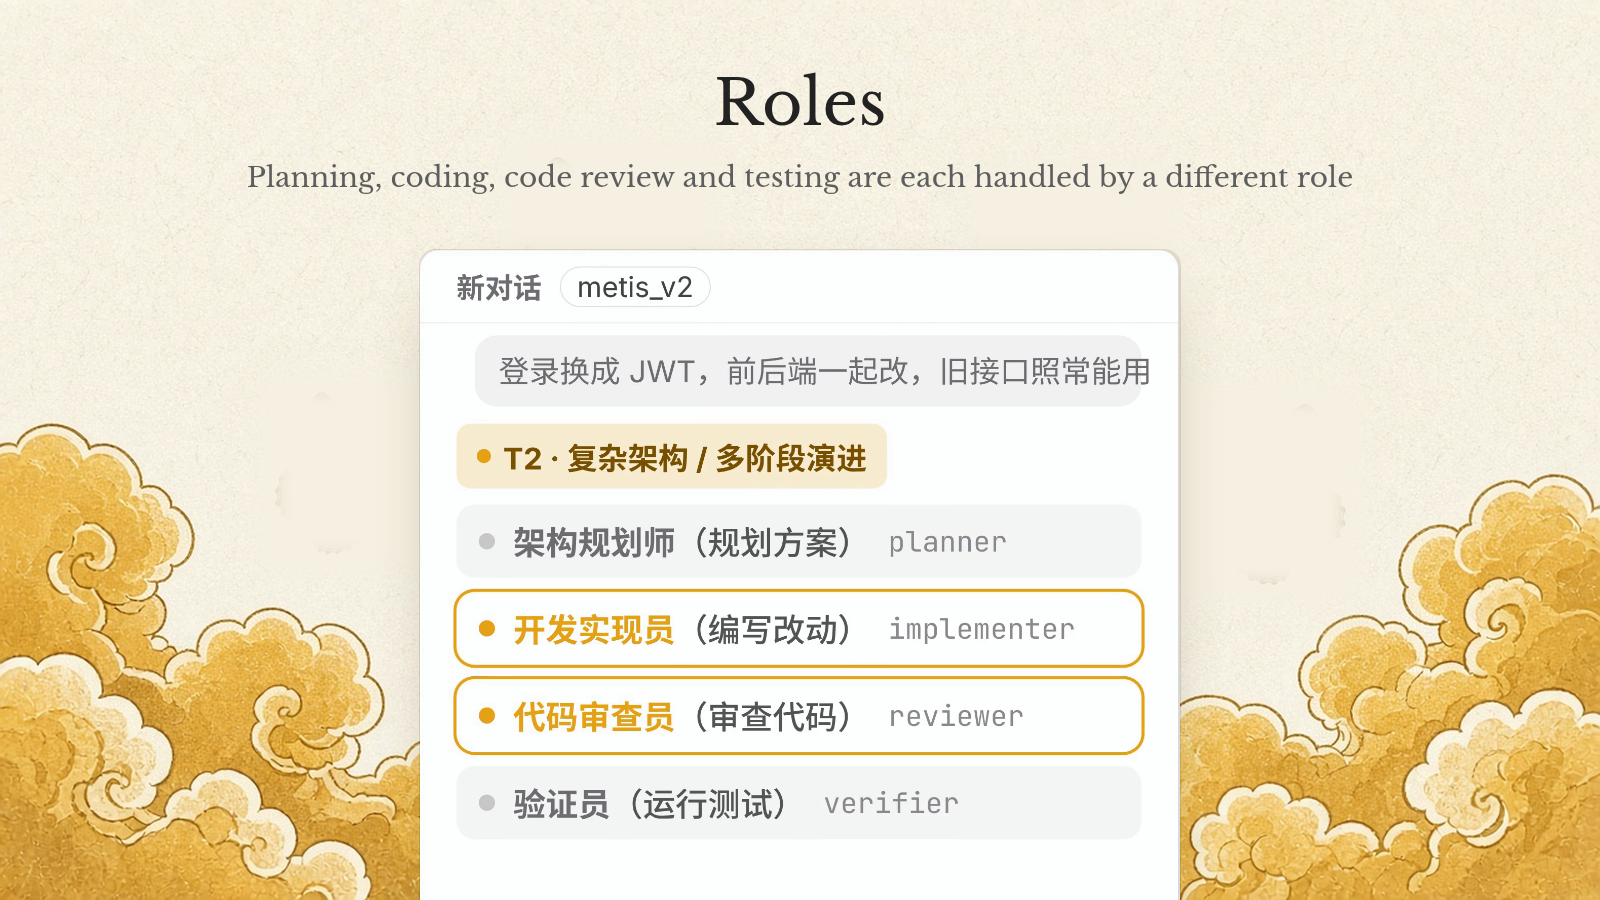
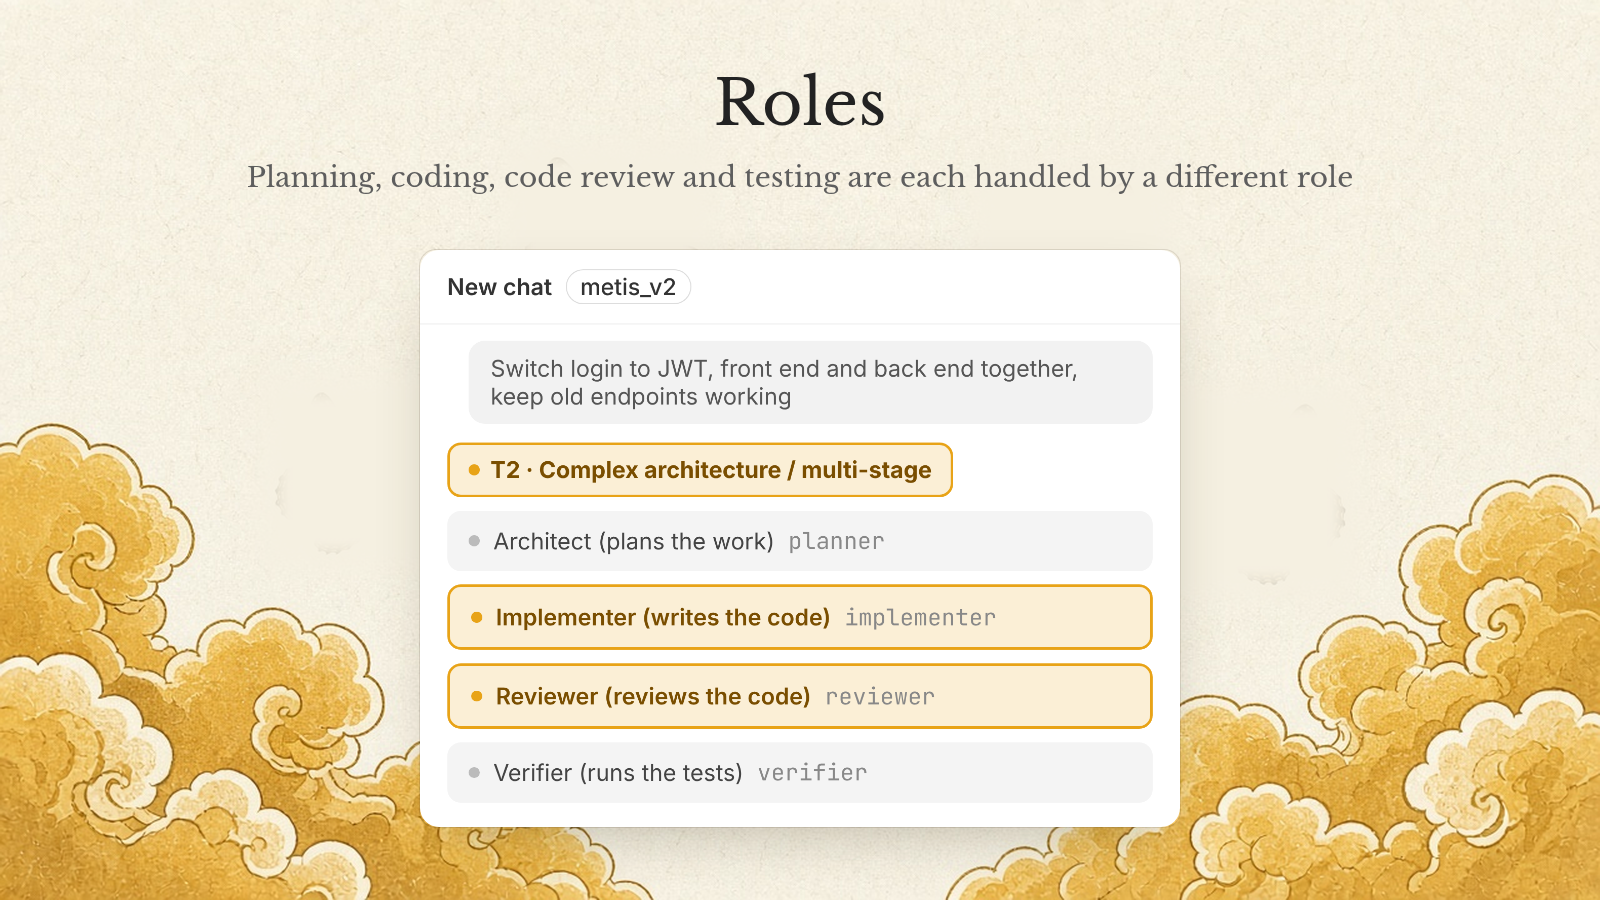
docs: install first, section header images, English UI cards

Changed region(s): [[0.25, 0.5911, 0.75, 1.0], [0.2812, 0.3733, 0.7188, 0.56], [0.2812, 0.3111, 0.4375, 0.3422]]

diff --git a/README.md b/README.md
@@ -19,6 +19,25 @@
   <a href="https://siliconflow.cn"><img alt="Powered by 硅基流动" src="https://img.shields.io/badge/Powered_by-%E7%A1%85%E5%9F%BA%E6%B5%81%E5%8A%A8-2563eb" /></a>
 </p>
 
+<p align="center"><img src="docs/images/readme/en/sections/quickstart.png" alt="Quick start" width="100%"></p>
+
+**Desktop (recommended):** download the installer from [GitHub Releases](https://github.com/Wholiver/metis/releases/latest): `.dmg` for macOS, `.exe` for Windows. The runtime is bundled, so you don't need Node.js.
+
+**Terminal** (requires [Node.js 22.19.0 or newer](https://nodejs.org/)):
+
+```bash
+npm install -g @wholiver_hu/metis
+```
+
+**Skill:**
+
+```bash
+npm install -g metis-skill
+metis-plugin install codex
+```
+
+For OpenCode or DeepSeek Harness, replace `codex` with `opencode` or `deepseek`. See the [Quickstart](docs/quickstart.md) for details.
+
 ## Desktop app
 
 <img src="docs/images/readme/en/desktop.png" alt="Desktop app" />
@@ -55,32 +74,13 @@ Metis drafts your commit messages, and you can see every changed file at a glanc
 
 Prefer the terminal? Use it there. You can also install it into Codex, OpenCode and DeepSeek Harness.
 
-## Quick start
-
-**Desktop (recommended):** download the installer from [GitHub Releases](https://github.com/Wholiver/metis/releases/latest): `.dmg` for macOS, `.exe` for Windows. The runtime is bundled, so you don't need Node.js.
-
-**Terminal** (requires [Node.js 22.19.0 or newer](https://nodejs.org/)):
-
-```bash
-npm install -g @wholiver_hu/metis
-```
-
-**Skill:**
-
-```bash
-npm install -g metis-skill
-metis-plugin install codex
-```
-
-For OpenCode or DeepSeek Harness, replace `codex` with `opencode` or `deepseek`. See the [Quickstart](docs/quickstart.md) for details.
-
-## Partners
+<p align="center"><img src="docs/images/readme/en/sections/partners.png" alt="Partners" width="100%"></p>
 
 | Logo | Partner | Link |
 | :---: | :--- | :--- |
 | <img src="docs/images/siliconflow-logo.png" alt="SiliconFlow" height="36" /> | **SiliconFlow (硅基流动)** — China's leading independent ecosystem token supply platform, providing Metis with efficient and flexible model inference. | [siliconflow.cn](https://siliconflow.cn) |
 
-## Community
+<p align="center"><img src="docs/images/readme/en/sections/community.png" alt="Community" width="100%"></p>
 
 <p align="center">
   <img src="docs/images/metis-community-qq.png" width="220" alt="Metis QQ group QR code" /><br />
@@ -89,17 +89,17 @@ For OpenCode or DeepSeek Harness, replace `codex` with `opencode` or `deepseek`.
 
 Found a bug or have an idea? Open an [issue](https://github.com/Wholiver/metis/issues) or start a [discussion](https://github.com/Wholiver/metis/discussions).
 
-## Documentation
+<p align="center"><img src="docs/images/readme/en/sections/docs.png" alt="Documentation" width="100%"></p>
 
 Every guide is listed in the [documentation index](docs/index.md). Start with the [Quickstart](docs/quickstart.md).
 
-## Contributing
+<p align="center"><img src="docs/images/readme/en/sections/contributing.png" alt="Contributing" width="100%"></p>
 
 PRs are welcome. See [CONTRIBUTING.md](CONTRIBUTING.md) for development and testing.
 
 Metis builds on [pi](https://github.com/earendil-works/pi) by Mario Zechner.
 
-## License
+<p align="center"><img src="docs/images/readme/en/sections/license.png" alt="License" width="100%"></p>
 
 [MIT](LICENSE)
 

diff --git a/README.zh-CN.md b/README.zh-CN.md
@@ -19,6 +19,25 @@
   <a href="https://siliconflow.cn"><img alt="Powered by 硅基流动" src="https://img.shields.io/badge/Powered_by-%E7%A1%85%E5%9F%BA%E6%B5%81%E5%8A%A8-2563eb" /></a>
 </p>
 
+<p align="center"><img src="docs/images/readme/zh/sections/quickstart.png" alt="快速开始" width="100%"></p>
+
+**桌面版（推荐）**：到 [GitHub Releases](https://github.com/Wholiver/metis/releases/latest) 下载安装包，macOS 选 `.dmg`，Windows 选 `.exe`。桌面版自带运行环境，不用另装 Node.js。
+
+**终端版**（需要 [Node.js 22.19.0 或更新版本](https://nodejs.org/)）：
+
+```bash
+npm install -g @wholiver_hu/metis
+```
+
+**Skill 版**：
+
+```bash
+npm install -g metis-skill
+metis-plugin install codex
+```
+
+想装进 OpenCode 或 DeepSeek Harness，把最后的 `codex` 换成 `opencode` 或 `deepseek`。更多说明见 [Quickstart](docs/quickstart.md)。
+
 ## 桌面版
 
 <img src="docs/images/readme/zh/desktop.png" alt="桌面版" />
@@ -55,32 +74,13 @@
 
 不想开桌面版就在终端里用，也能装进 Codex、OpenCode 和 DeepSeek Harness。
 
-## 快速开始
-
-**桌面版（推荐）**：到 [GitHub Releases](https://github.com/Wholiver/metis/releases/latest) 下载安装包，macOS 选 `.dmg`，Windows 选 `.exe`。桌面版自带运行环境，不用另装 Node.js。
-
-**终端版**（需要 [Node.js 22.19.0 或更新版本](https://nodejs.org/)）：
-
-```bash
-npm install -g @wholiver_hu/metis
-```
-
-**Skill 版**：
-
-```bash
-npm install -g metis-skill
-metis-plugin install codex
-```
-
-想装进 OpenCode 或 DeepSeek Harness，把最后的 `codex` 换成 `opencode` 或 `deepseek`。更多说明见 [Quickstart](docs/quickstart.md)。
-
-## 合作伙伴
+<p align="center"><img src="docs/images/readme/zh/sections/partners.png" alt="合作伙伴" width="100%"></p>
 
 | 商标 | 合作方 | 链接 |
 | :---: | :--- | :--- |
 | <img src="docs/images/siliconflow-logo.png" alt="SiliconFlow" height="36" /> | **SiliconFlow (硅基流动)** — China's leading independent ecosystem token supply platform, providing Metis with efficient and flexible model inference. | [siliconflow.cn](https://siliconflow.cn) |
 
-## 交流群
+<p align="center"><img src="docs/images/readme/zh/sections/community.png" alt="交流群" width="100%"></p>
 
 <p align="center">
   <img src="docs/images/metis-community-qq.png" width="220" alt="Metis 交流群二维码" /><br />
@@ -89,17 +89,17 @@ metis-plugin install codex
 
 遇到问题或有新想法，也可以到 [Issues](https://github.com/Wholiver/metis/issues) 或 [Discussions](https://github.com/Wholiver/metis/discussions) 留言。
 
-## 文档
+<p align="center"><img src="docs/images/readme/zh/sections/docs.png" alt="文档" width="100%"></p>
 
 所有使用说明都在 [文档目录](docs/index.md)，从 [Quickstart](docs/quickstart.md) 开始看就行。
 
-## 参与贡献
+<p align="center"><img src="docs/images/readme/zh/sections/contributing.png" alt="参与贡献" width="100%"></p>
 
 欢迎提 PR，开发和测试方式见 [CONTRIBUTING.md](CONTRIBUTING.md)。
 
 Metis 基于 Mario Zechner 的 [pi](https://github.com/earendil-works/pi) 开发，感谢原作者。
 
-## License
+<p align="center"><img src="docs/images/readme/zh/sections/license.png" alt="License" width="100%"></p>
 
 [MIT](LICENSE)
 
